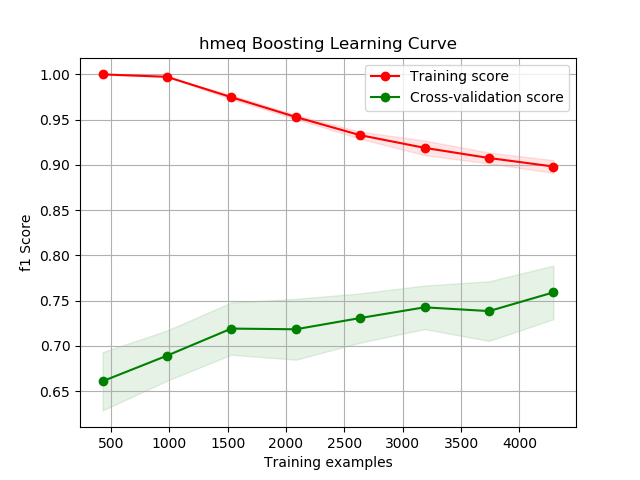
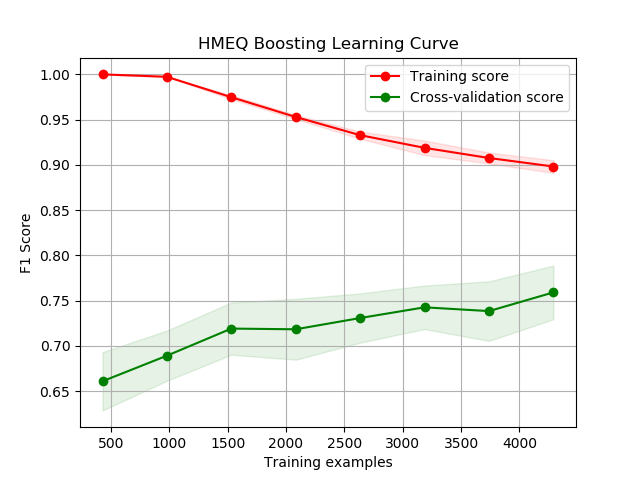
tried adding different SVM kernel

Changed region(s): [[0.3125, 0.0625, 0.7188, 0.125], [0.0312, 0.4375, 0.0625, 0.5625]]

diff --git a/knn.py b/knn.py
@@ -42,12 +42,12 @@ def run_knn(name, x_train, x_test, y_train, y_test, tuned_parameters):
 def run_pulsar_knn():
     x_train, x_test, y_train, y_test = get_pulsar_data()
     tuned_parameters = [{'n_neighbors': list(range(1,10))}]
-    run_knn("pulsar", x_train, x_test, y_train, y_test, tuned_parameters)
+    run_knn("Pulsar", x_train, x_test, y_train, y_test, tuned_parameters)
 
 def run_hmeq_knn():
     x_train, x_test, y_train, y_test = get_hmeq_data()
     tuned_parameters = [{'n_neighbors': list(range(1,10))}]
-    run_knn("hmeq", x_train, x_test, y_train, y_test, tuned_parameters)
+    run_knn("HMEQ", x_train, x_test, y_train, y_test, tuned_parameters)
 
 
 if __name__ == "__main__":

diff --git a/boosting.py b/boosting.py
@@ -49,7 +49,7 @@ def run_pulsar_boosting():
         "n_estimators":[10, 15, 20, 25, 30]
     }
 
-    run_boosting("pulsar", x_train, x_test, y_train, y_test, tuned_parameters)
+    run_boosting("Pulsar", x_train, x_test, y_train, y_test, tuned_parameters)
 
 def run_hmeq_boosting():
     x_train, x_test, y_train, y_test = get_hmeq_data()
@@ -60,7 +60,7 @@ def run_hmeq_boosting():
         "n_estimators":[10, 15, 20, 25, 30]
     }
 
-    run_boosting("hmeq", x_train, x_test, y_train, y_test, tuned_parameters)
+    run_boosting("HMEQ", x_train, x_test, y_train, y_test, tuned_parameters)
 
 if __name__ == "__main__":
     print ("Running Boosting Code, this should take a minute or two")

diff --git a/neural_network.py b/neural_network.py
@@ -58,7 +58,7 @@ def run_pulsar_nn():
         }
 
     x_train, x_test, y_train, y_test = get_pulsar_data()
-    run_nn("pulsar", x_train, x_test, y_train, y_test, tuned_parameters)
+    run_nn("Pulsar", x_train, x_test, y_train, y_test, tuned_parameters)
 
 def run_hmeq_nn():
     tuned_parameters = {
@@ -69,7 +69,7 @@ def run_hmeq_nn():
         }
 
     x_train, x_test, y_train, y_test = get_hmeq_data()
-    run_nn("hmeq", x_train, x_test, y_train, y_test, tuned_parameters)
+    run_nn("HMEQ", x_train, x_test, y_train, y_test, tuned_parameters)
 
 if __name__ == "__main__":
     print ("Running Neural Net Code, this should take a minute or two")

diff --git a/svm.py b/svm.py
@@ -44,7 +44,7 @@ def run_pulsar_svm():
     }
 
     x_train, x_test, y_train, y_test = get_pulsar_data()
-    run_svm("pulsar", x_train, x_test, y_train, y_test, tuned_parameters)
+    run_svm("Pulsar", x_train, x_test, y_train, y_test, tuned_parameters)
 
 def run_hmeq_svm():
     tuned_parameters = {
@@ -53,7 +53,7 @@ def run_hmeq_svm():
     }
 
     x_train, x_test, y_train, y_test = get_hmeq_data()
-    run_svm("hmeq", x_train, x_test, y_train, y_test, tuned_parameters)
+    run_svm("HMEQ", x_train, x_test, y_train, y_test, tuned_parameters)
 
 if __name__ == "__main__":
     print ("Running SVM Code, this should take a minute or two")

diff --git a/decision_tree.py b/decision_tree.py
@@ -41,11 +41,11 @@ def run_dt(name, x_train, x_test, y_train, y_test):
 
 def run_pulsar_dt():
     x_train, x_test, y_train, y_test = get_pulsar_data()
-    run_dt("pulsar", x_train, x_test, y_train, y_test)
+    run_dt("Pulsar", x_train, x_test, y_train, y_test)
 
 def run_hmeq_dt():
     x_train, x_test, y_train, y_test = get_hmeq_data()
-    run_dt("hmeq", x_train, x_test, y_train, y_test)
+    run_dt("HMEQ", x_train, x_test, y_train, y_test)
 
 if __name__ == "__main__":
     print ("Running Decision Tree Code, this should take a minute or two")

diff --git a/utils.py b/utils.py
@@ -161,7 +161,7 @@ def plot_learning_curve(estimator, title, X, y, ylim=None, cv=5,
     if ylim is not None:
         plt.ylim(*ylim)
     plt.xlabel("Training examples")
-    plt.ylabel(str(scoring) + " " + "Score")
+    plt.ylabel("F1 Score")
     train_sizes, train_scores, test_scores = learning_curve(
         estimator, X, y, cv=cv, n_jobs=n_jobs, train_sizes=train_sizes, scoring=scoring, random_state=99)
     train_scores_mean = np.mean(train_scores, axis=1)
